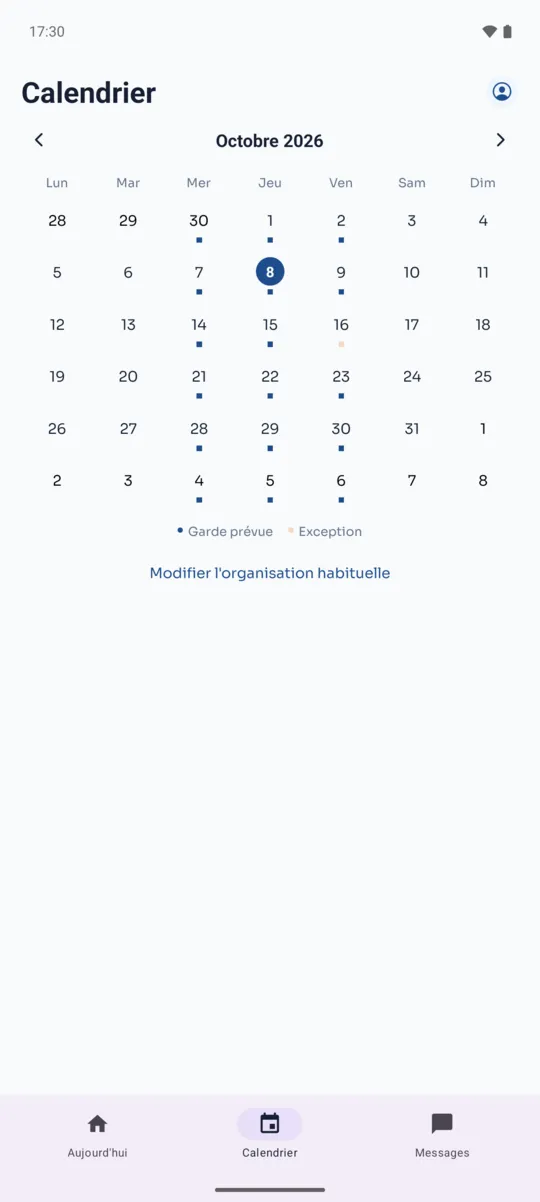
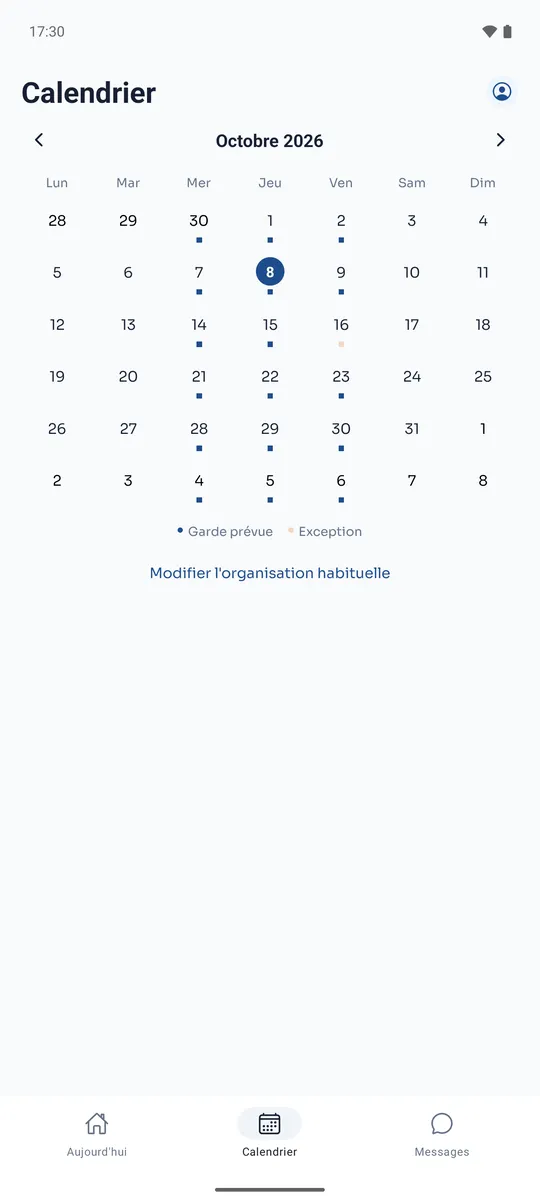
feat: refresh flonexa and kidarys screenshots
- replace the four flonexa screenshots with new captures and a clean status bar
- restyle the kidarys bottom tab bar to match the current app

Changed region(s): [[0.4148, 0.9235, 0.5926, 1.0], [0.1185, 0.9235, 0.237, 0.985], [0.7704, 0.9235, 0.8593, 0.985]]

diff --git a/src/lib/projects.ts b/src/lib/projects.ts
@@ -132,22 +132,23 @@ export const projects: Project[] = [
     projectUrl: "https://flonexa.app",
     playStoreUrl: "https://play.google.com/store/apps/details?id=app.flonexa",
     privacyUrl: "https://flonexa.app/privacy",
+    screenshotHeight: 1200,
     screenshots: [
       {
         src: "/projects/flonexa/screenshots/flonexa-today.webp",
-        alt: "Page Aujourd'hui de Flonexa : le briefing du jour, avec les actus F1 et tennis à retenir.",
+        alt: "Page Aujourd'hui de Flonexa : le briefing du jour, avec une actu tennis à retenir et sa source.",
       },
       {
         src: "/projects/flonexa/screenshots/flonexa-news.webp",
-        alt: "Onglet Actus : des histoires résumées par IA, filtrables par sport, chacune reliée à sa source.",
+        alt: "Onglet Actus filtré sur la Formule 1 : des histoires résumées par IA, chacune reliée à sa source.",
       },
       {
         src: "/projects/flonexa/screenshots/flonexa-standings.webp",
-        alt: "Classement du championnat de Formule 1 : pilotes, points et favoris repérés par une étoile.",
+        alt: "Classement des pilotes de Formule 1 : points et favoris repérés par une étoile.",
       },
       {
         src: "/projects/flonexa/screenshots/flonexa-favorites.webp",
-        alt: "Page Favoris : les pilotes, écuries et joueurs suivis, qui personnalisent le briefing.",
+        alt: "Page Favoris : les joueurs de tennis, pilotes et écuries suivis, qui personnalisent le briefing.",
       },
     ],
     logo: { src: "/projects/logos/flonexa.png", alt: "" },
